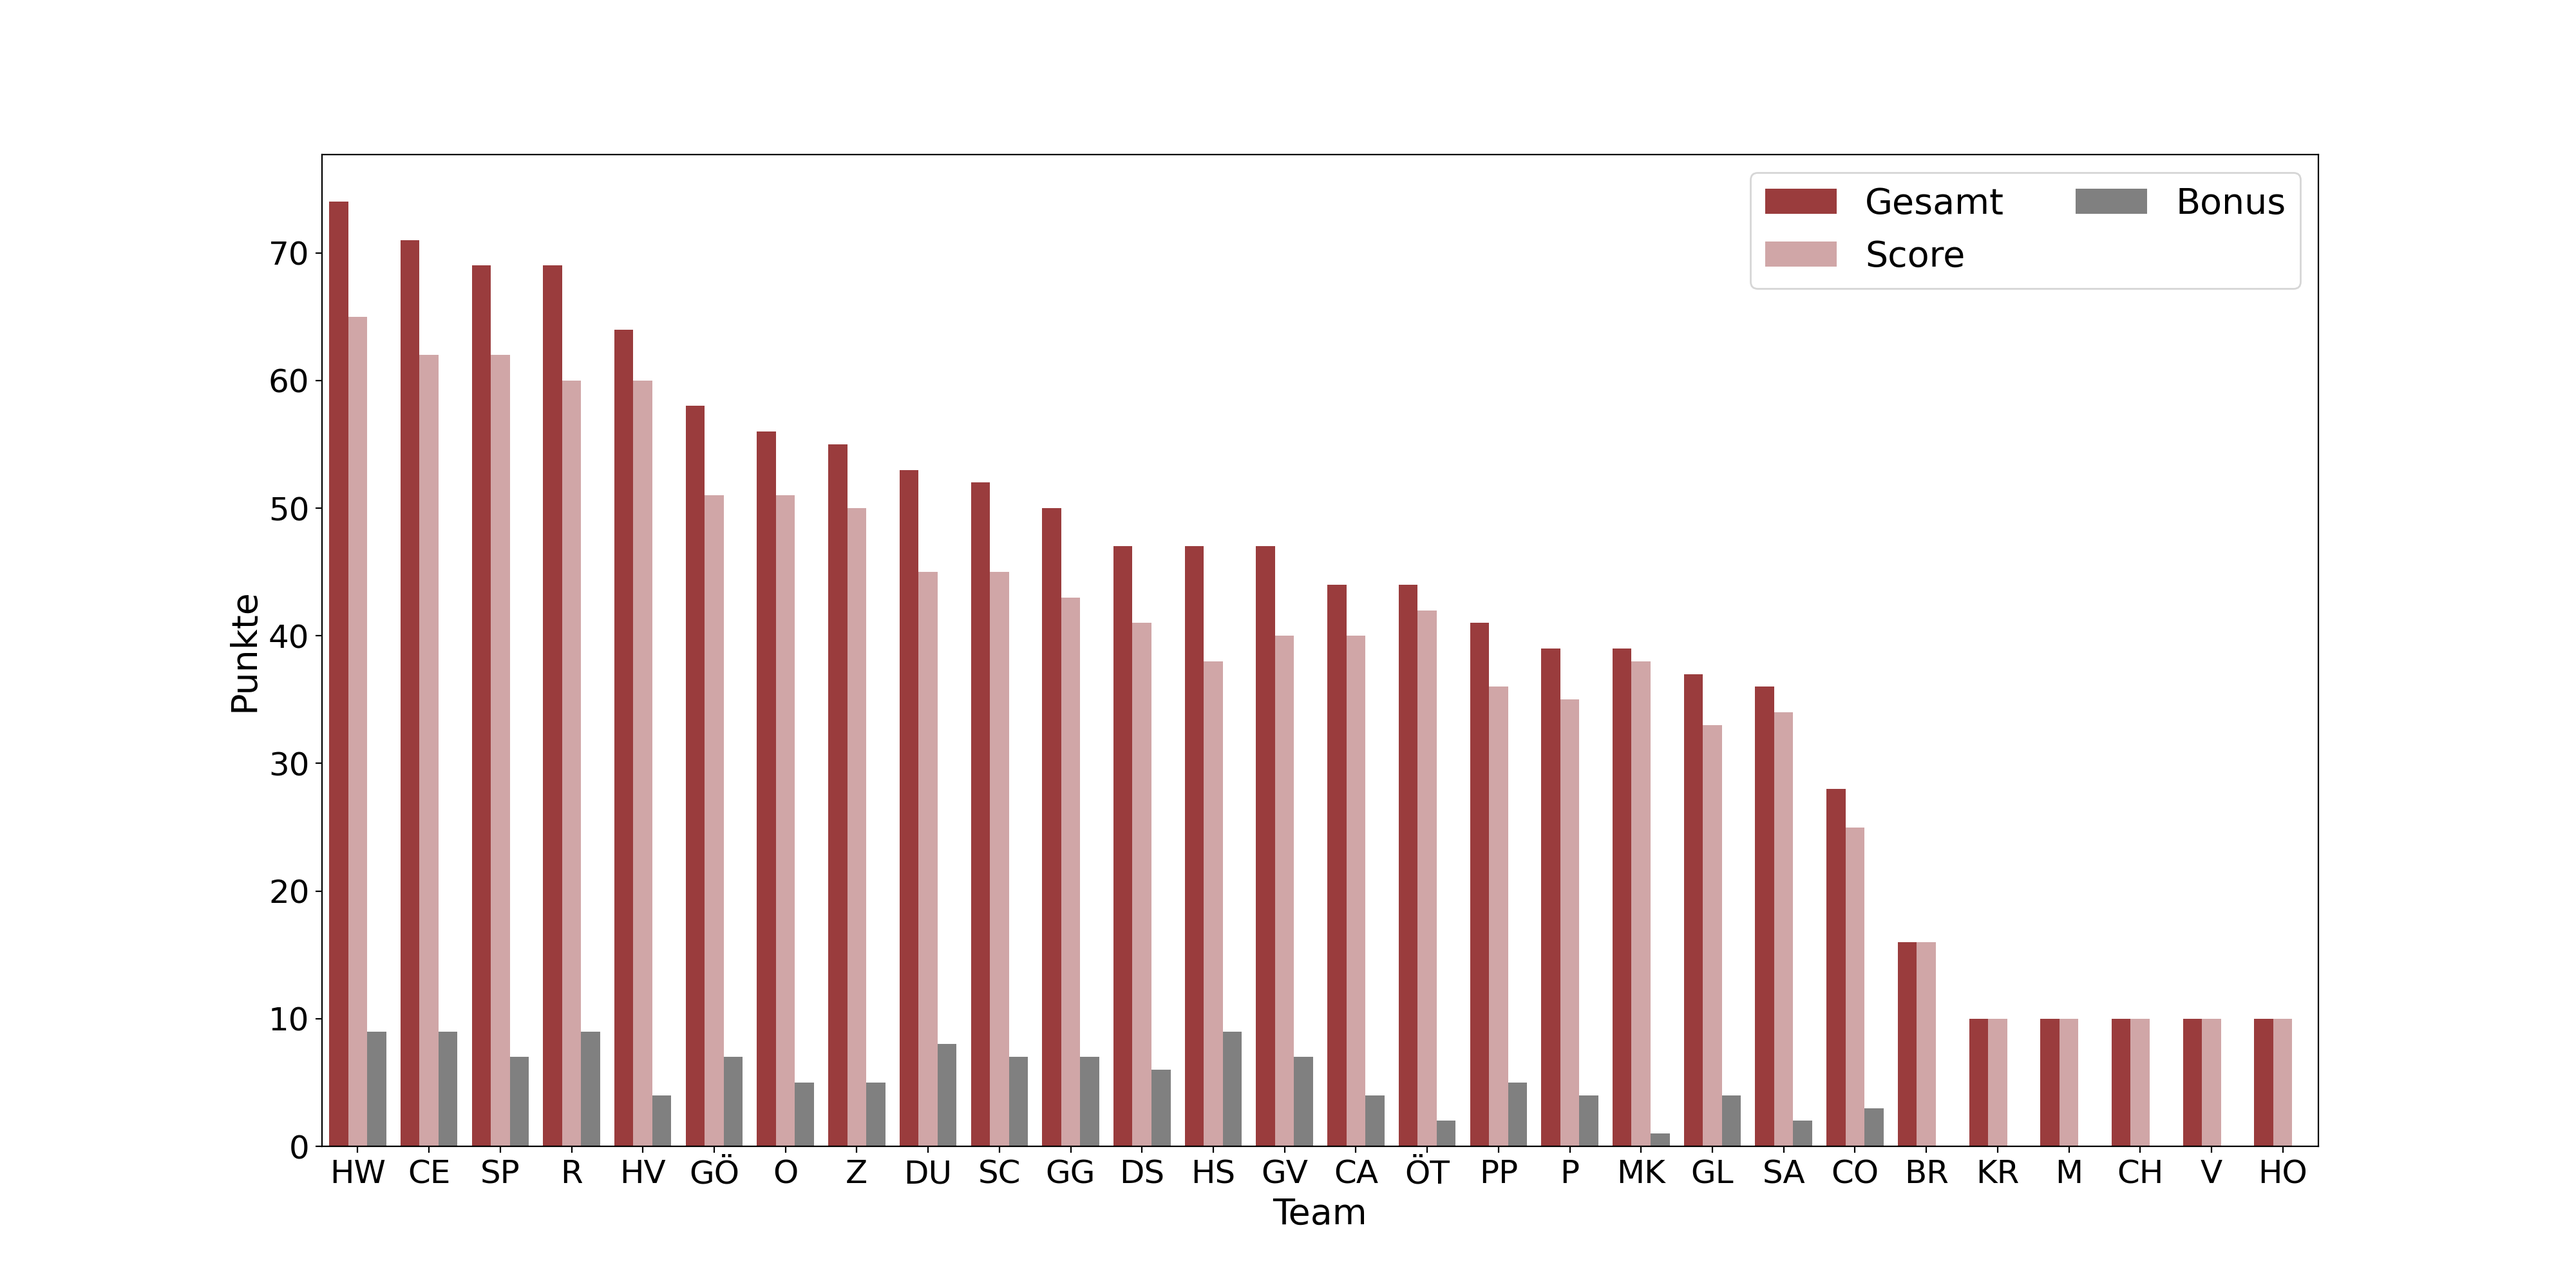
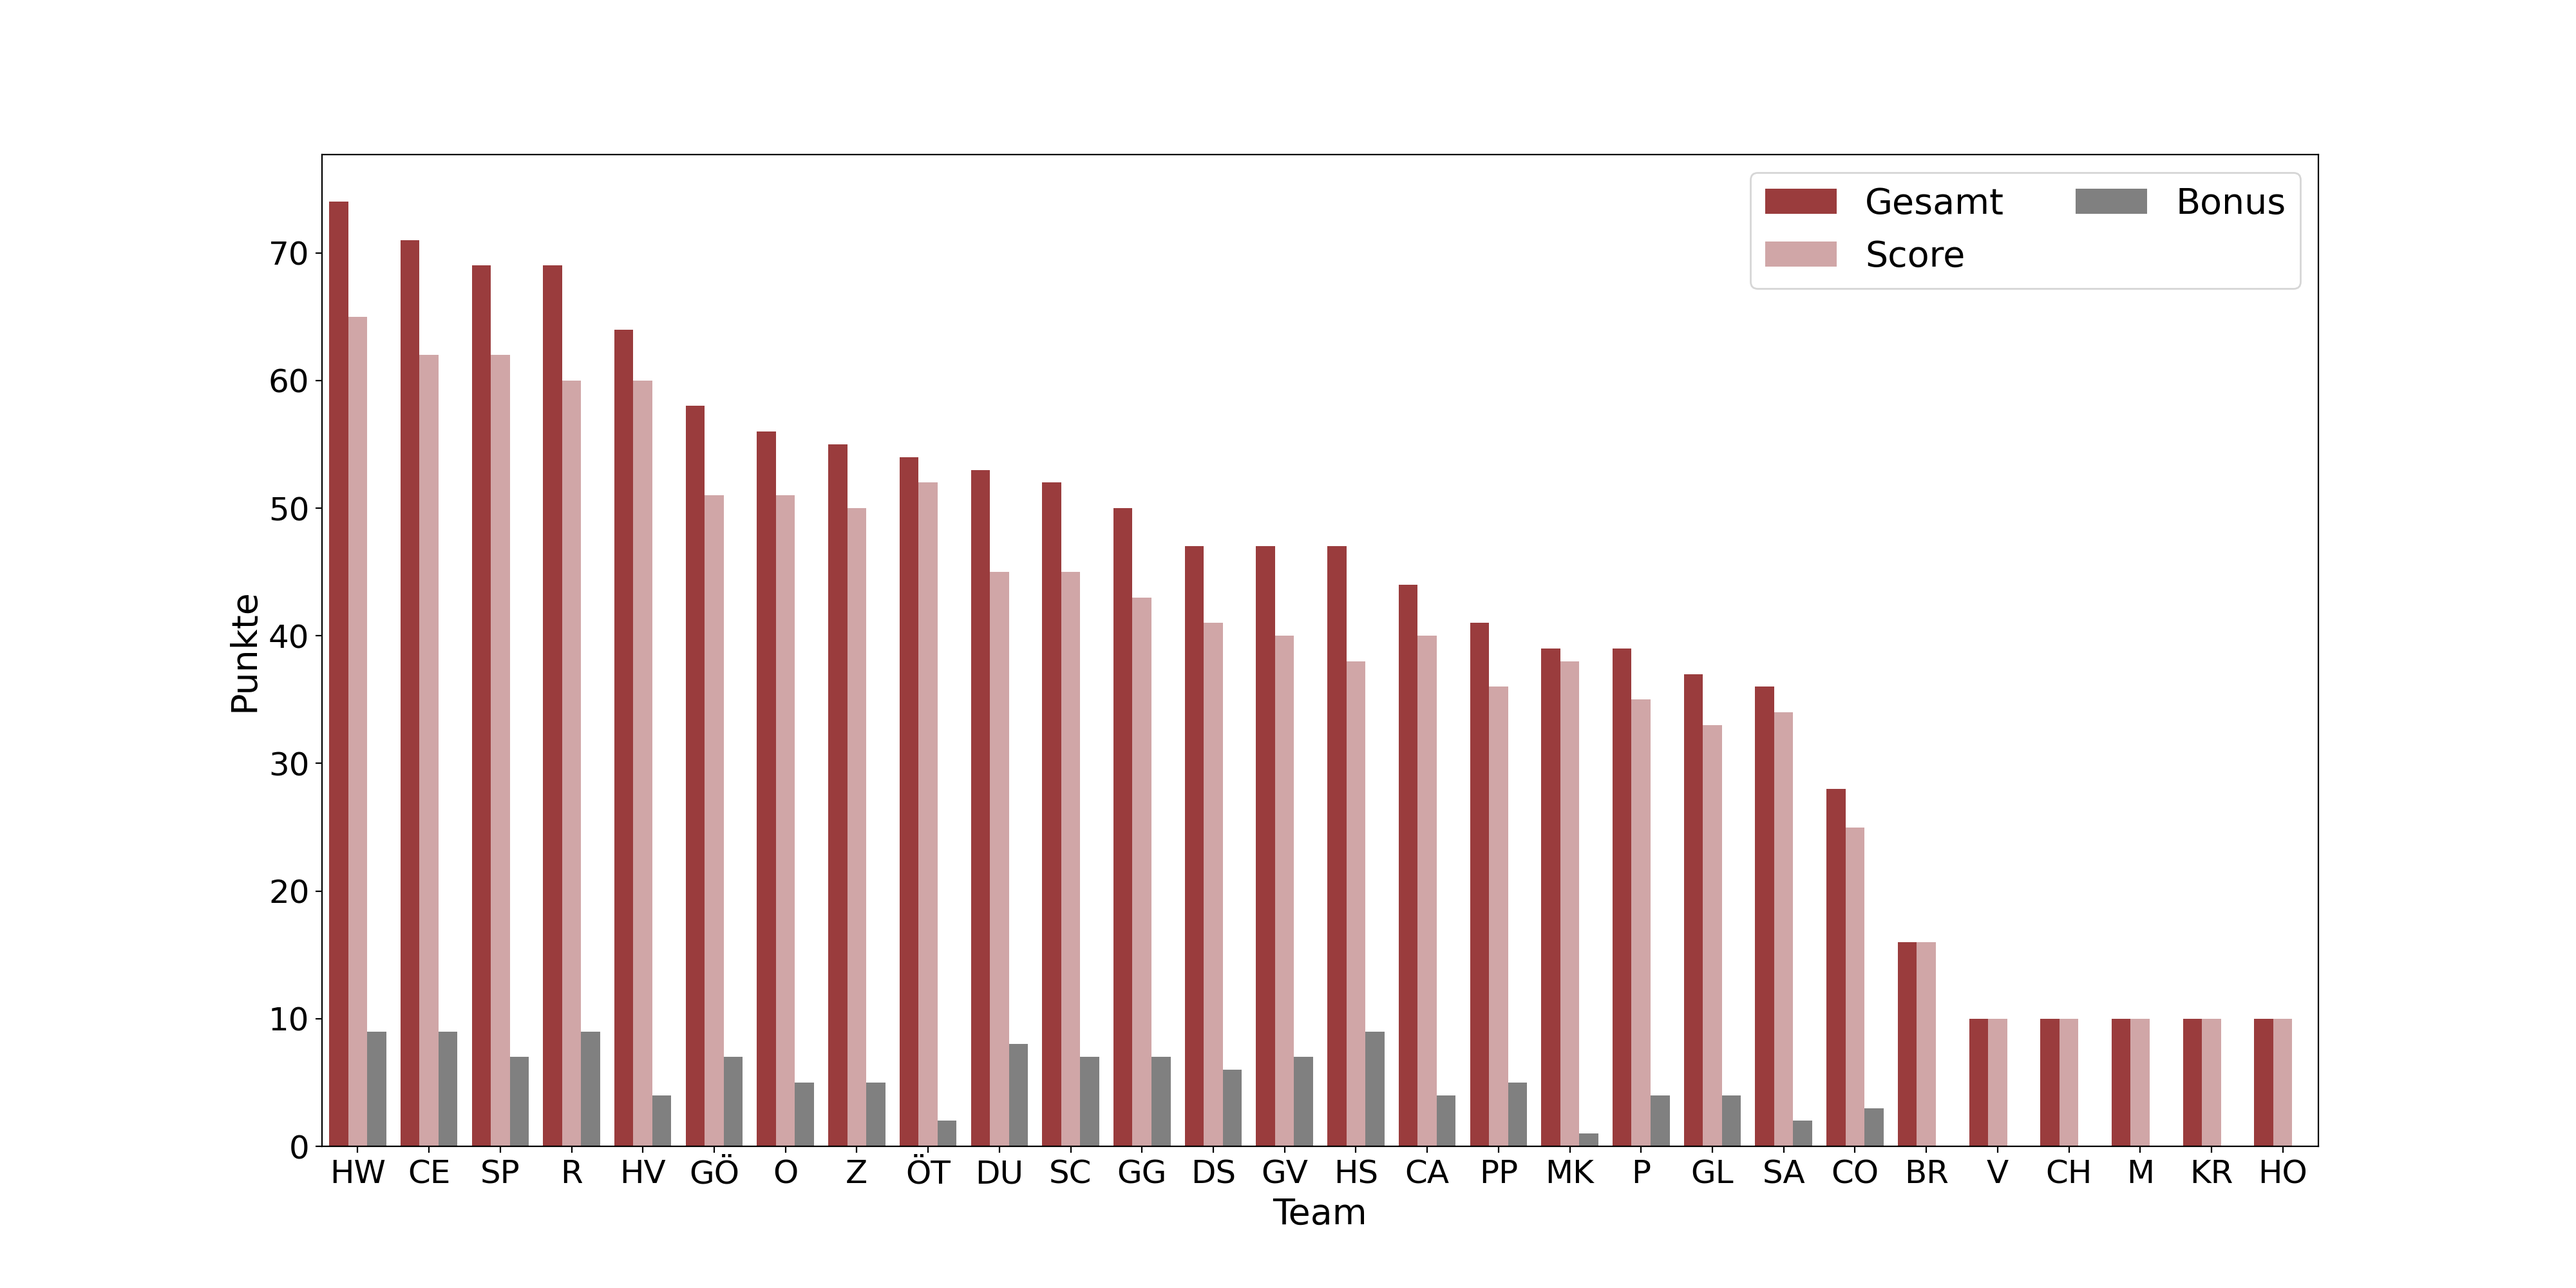
update

diff --git a/css/style_teams.css b/css/style_teams.css
@@ -72,7 +72,7 @@
             background-color: #c23a22
         }
         .M {
-            order: 24
+            order: 25
         }
         .M .team__all-points::after{
             content: "10 "
@@ -92,7 +92,7 @@
             background-color: #dab894
         }
         .DS {
-            order: 11
+            order: 12
         }
         .DS .team__all-points::after{
             content: "47"
@@ -112,7 +112,7 @@
             background-color: #d6eadf
         }
         .DU {
-            order: 8
+            order: 9
         }
         .DU .team__all-points::after{
             content: "53"
@@ -121,10 +121,10 @@
 
 
         .OT .team__score::after {
-            content: "42/120"
+            content: "52/120"
         }
         .OT .team__stations::after {
-            content: "5/12"
+            content: "6/12"
         }
         .OT .team__bonus::after {
             content: "2/36"
@@ -133,10 +133,10 @@
             background-color: #957DAD
         }
         .OT {
-            order: 15
+            order: 8
         }
         .OT .team__all-points::after{
-            content: " 44"
+            content: " 54"
         }
 
 
@@ -154,7 +154,7 @@
             background-color: #E0BBE4
         }
         .GG {
-            order: 10
+            order: 11
         }
         .GG .team__all-points::after{
              content: "50"
@@ -174,7 +174,7 @@
             background-color: #d291bc
         }
         .CH {
-            order: 25
+            order: 24
         }
         .CH .team__all-points::after{
             content: "10"
@@ -234,7 +234,7 @@
             background-color: #9d8189
         }
         .SC {
-            order: 9
+            order: 10
         }
         .SC .team__all-points::after{
             content: "52"
@@ -254,7 +254,7 @@
             background-color: #cccccc
         }
         .V {
-            order: 26
+            order: 23
         }
         .V .team__all-points::after{
             content: "10"
@@ -274,7 +274,7 @@
             background-color: #9cadce
         }
         .MK {
-            order: 18
+            order: 17
         }
         .MK .team__all-points::after{
             content: "39"
@@ -314,7 +314,7 @@
             background-color: #5d5b6a
         }
         .P {
-            order: 17
+            order: 18
         }
         .P .team__all-points::after{
             content: "39"
@@ -355,7 +355,7 @@
             background-color: #efe9ae
         }
         .HS {
-            order: 12
+            order: 14
         }
         .HS .team__all-points::after{
             content: "47"
@@ -436,7 +436,7 @@
             background-color: #ff8fab
         }
         .KR {
-            order: 23
+            order: 26
         }
         .KR .team__all-points::after{
             content: "10"
@@ -516,7 +516,7 @@
             background-color: #ffc8dd
         }
         .CA {
-            order: 14
+            order: 15
         }
         .CA .team__all-points::after{
             content: "44"
